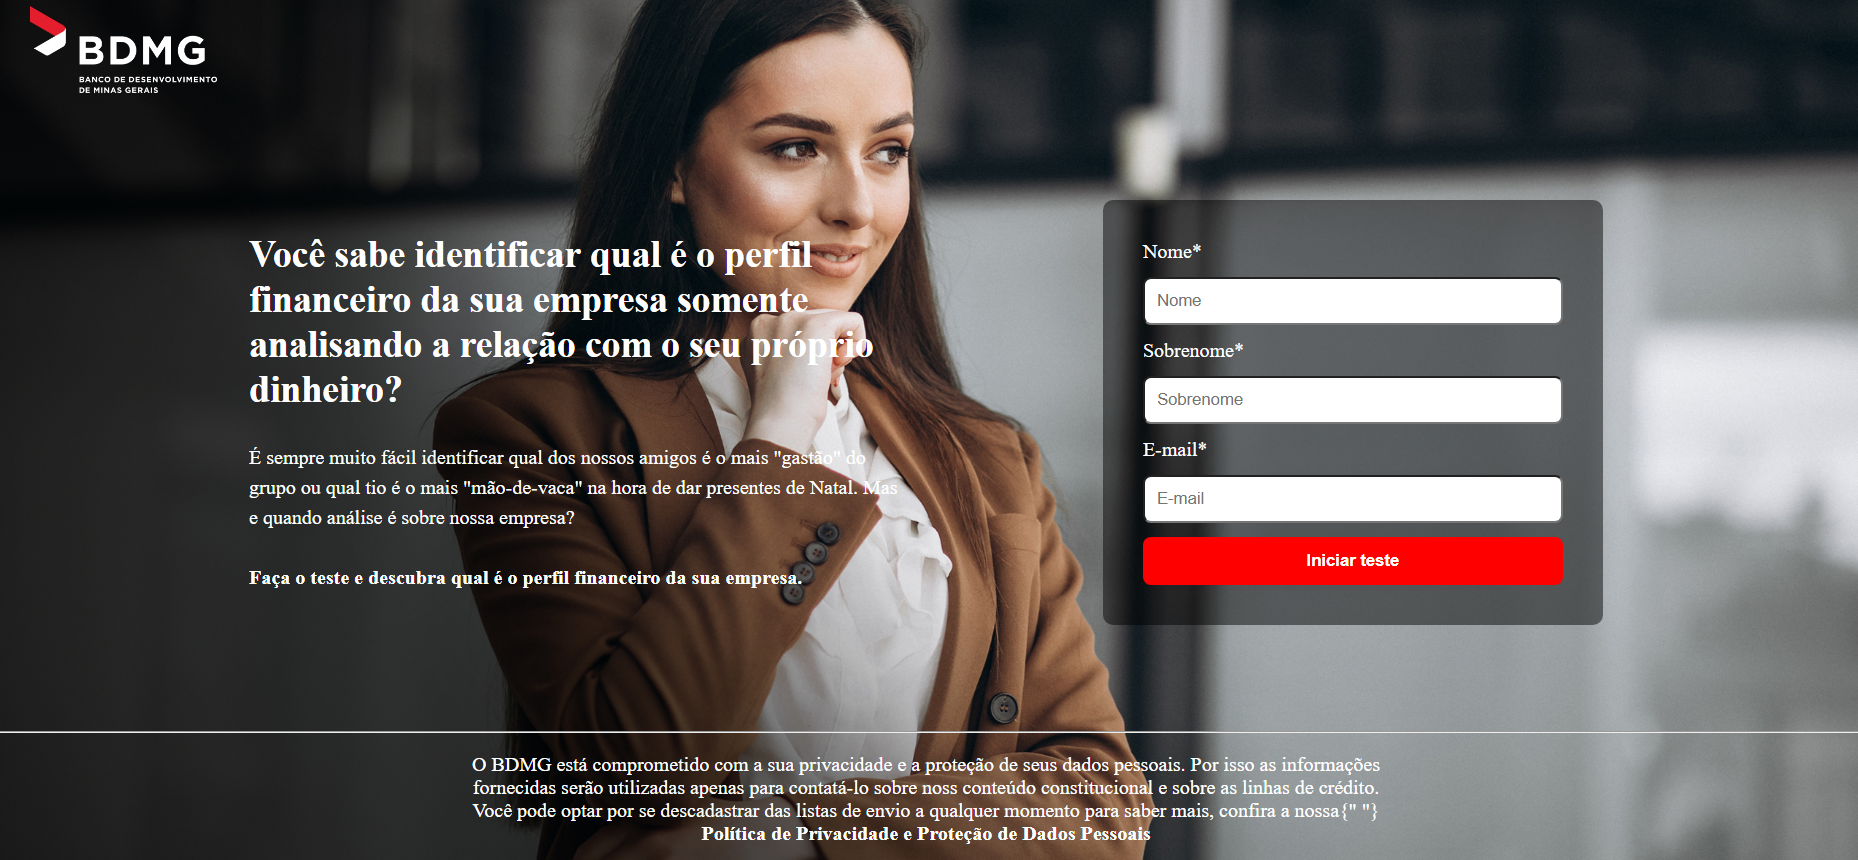
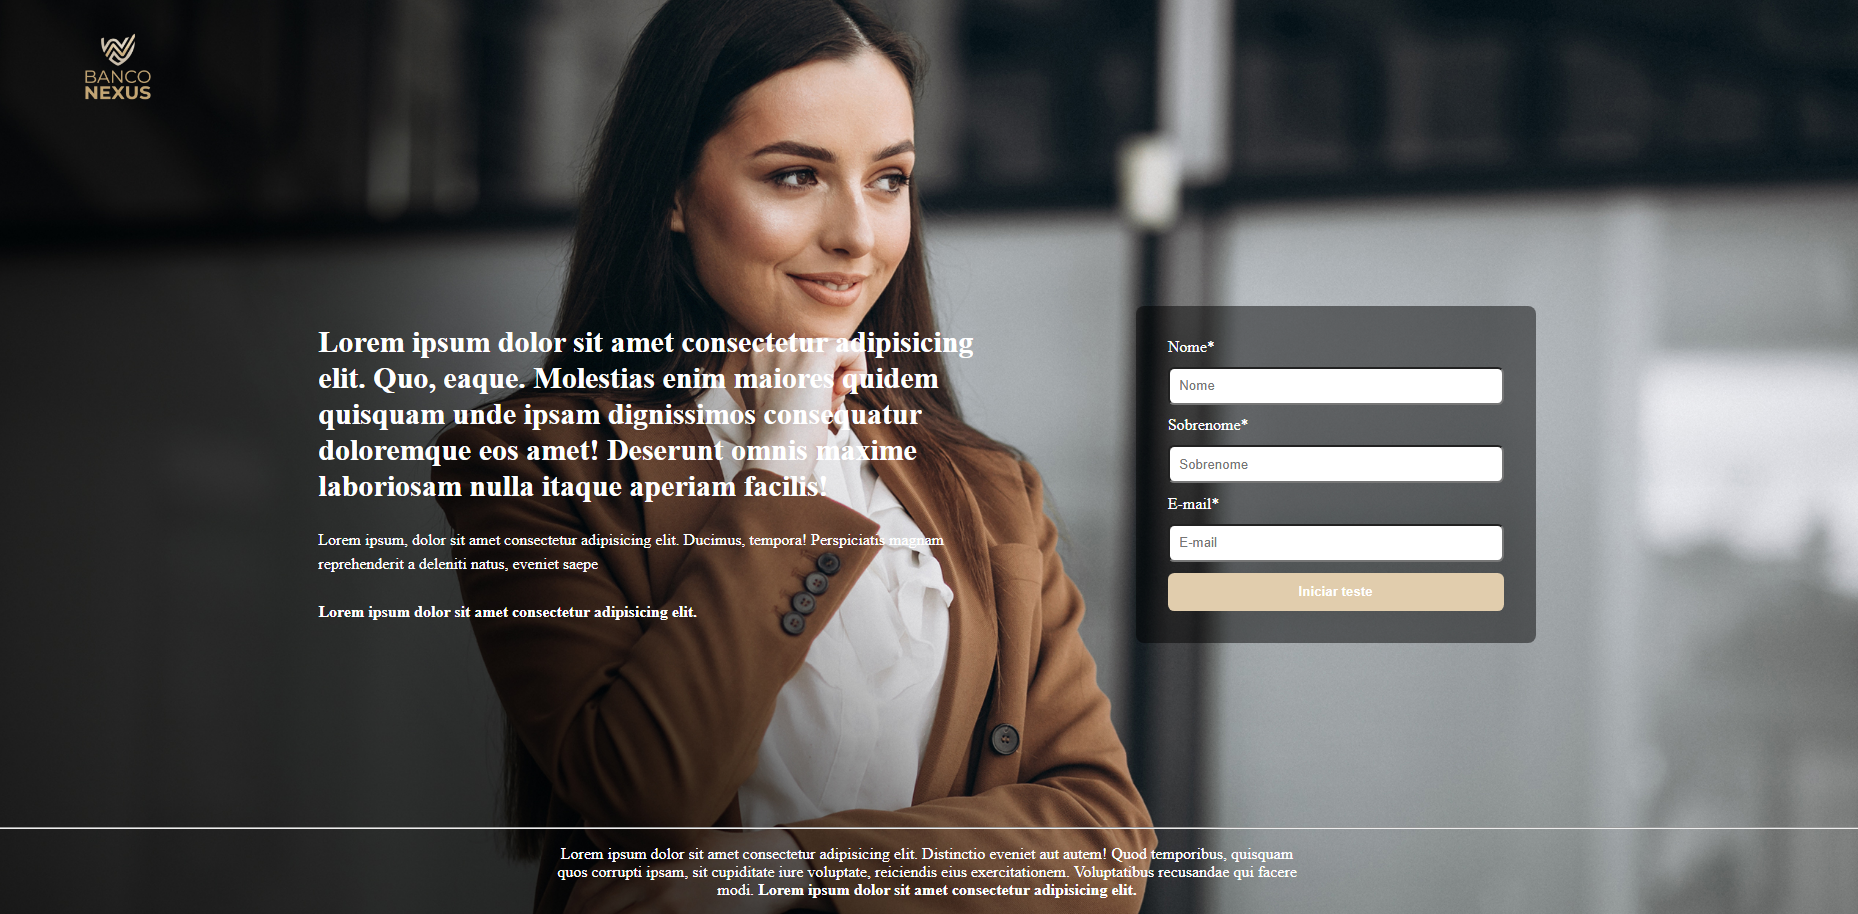
Mudando o link da rota da landing page na parte dos projetos

diff --git a/src/pages/Projects/Projects.jsx b/src/pages/Projects/Projects.jsx
@@ -17,7 +17,7 @@ function Projects() {
       description: `Uma Landing Page onde tentei aperfeiçoar a técnica de estudos chamada "Pixel Perfect" que consiste em pegar um projeto já existente e cria-lo colocando em pratica suas habilidades.`,
 
       tools: ["HTML", "CSS"],
-      link: "https://mrjonc.github.io/landing-page/",
+      link: "https://mrjonc.github.io/Landing-Page/",
     },
 
     {